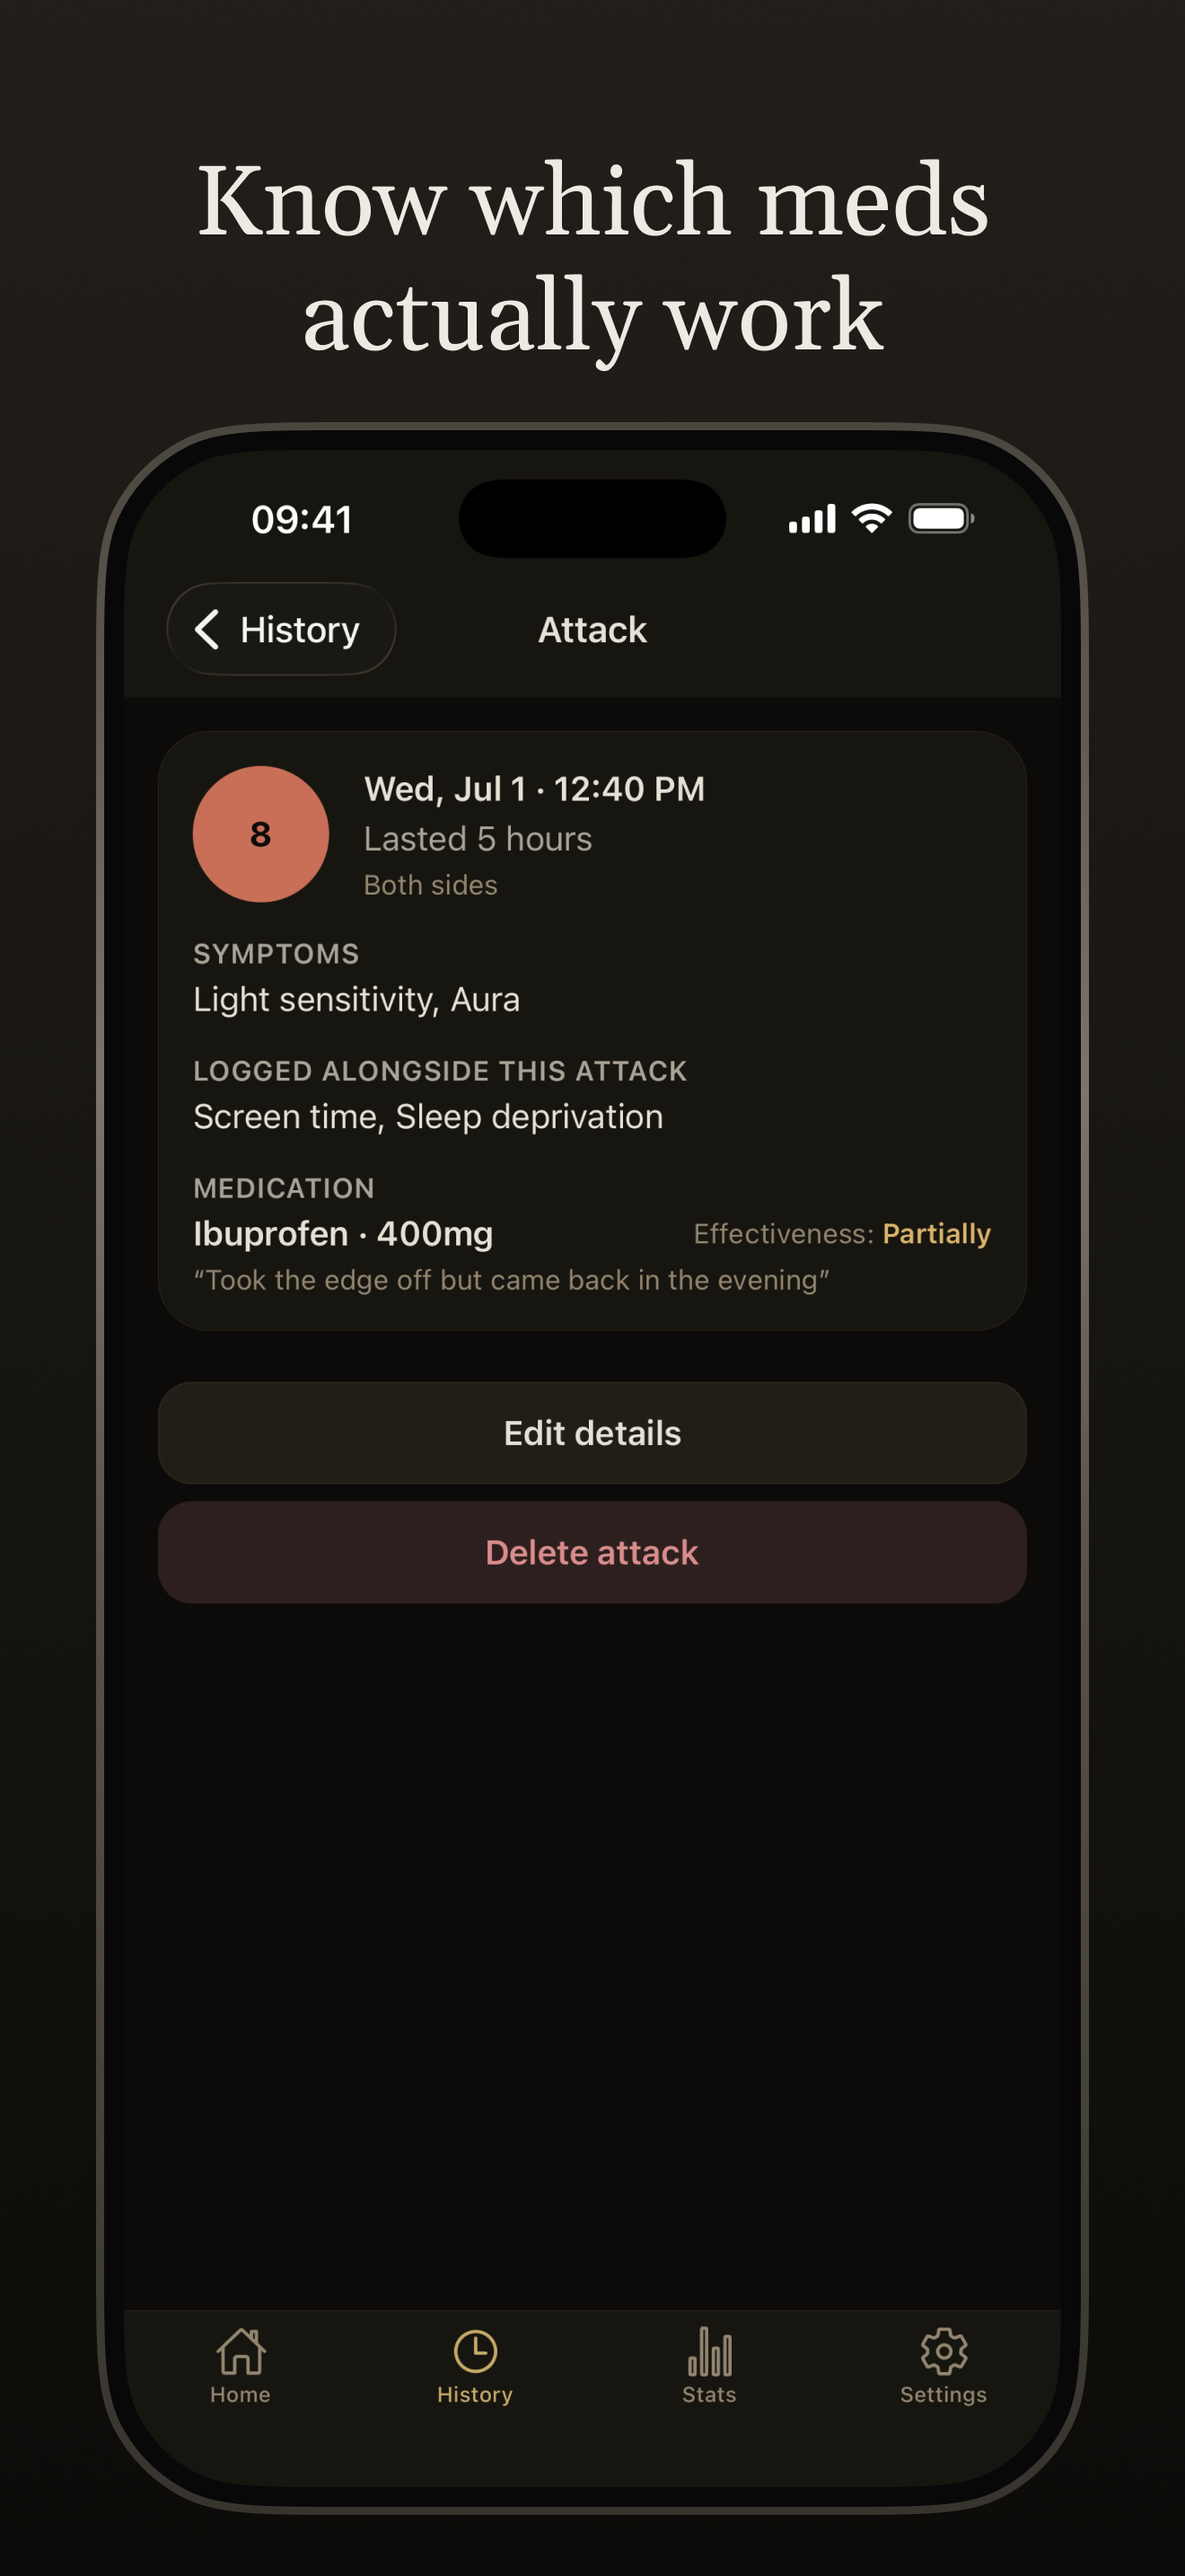
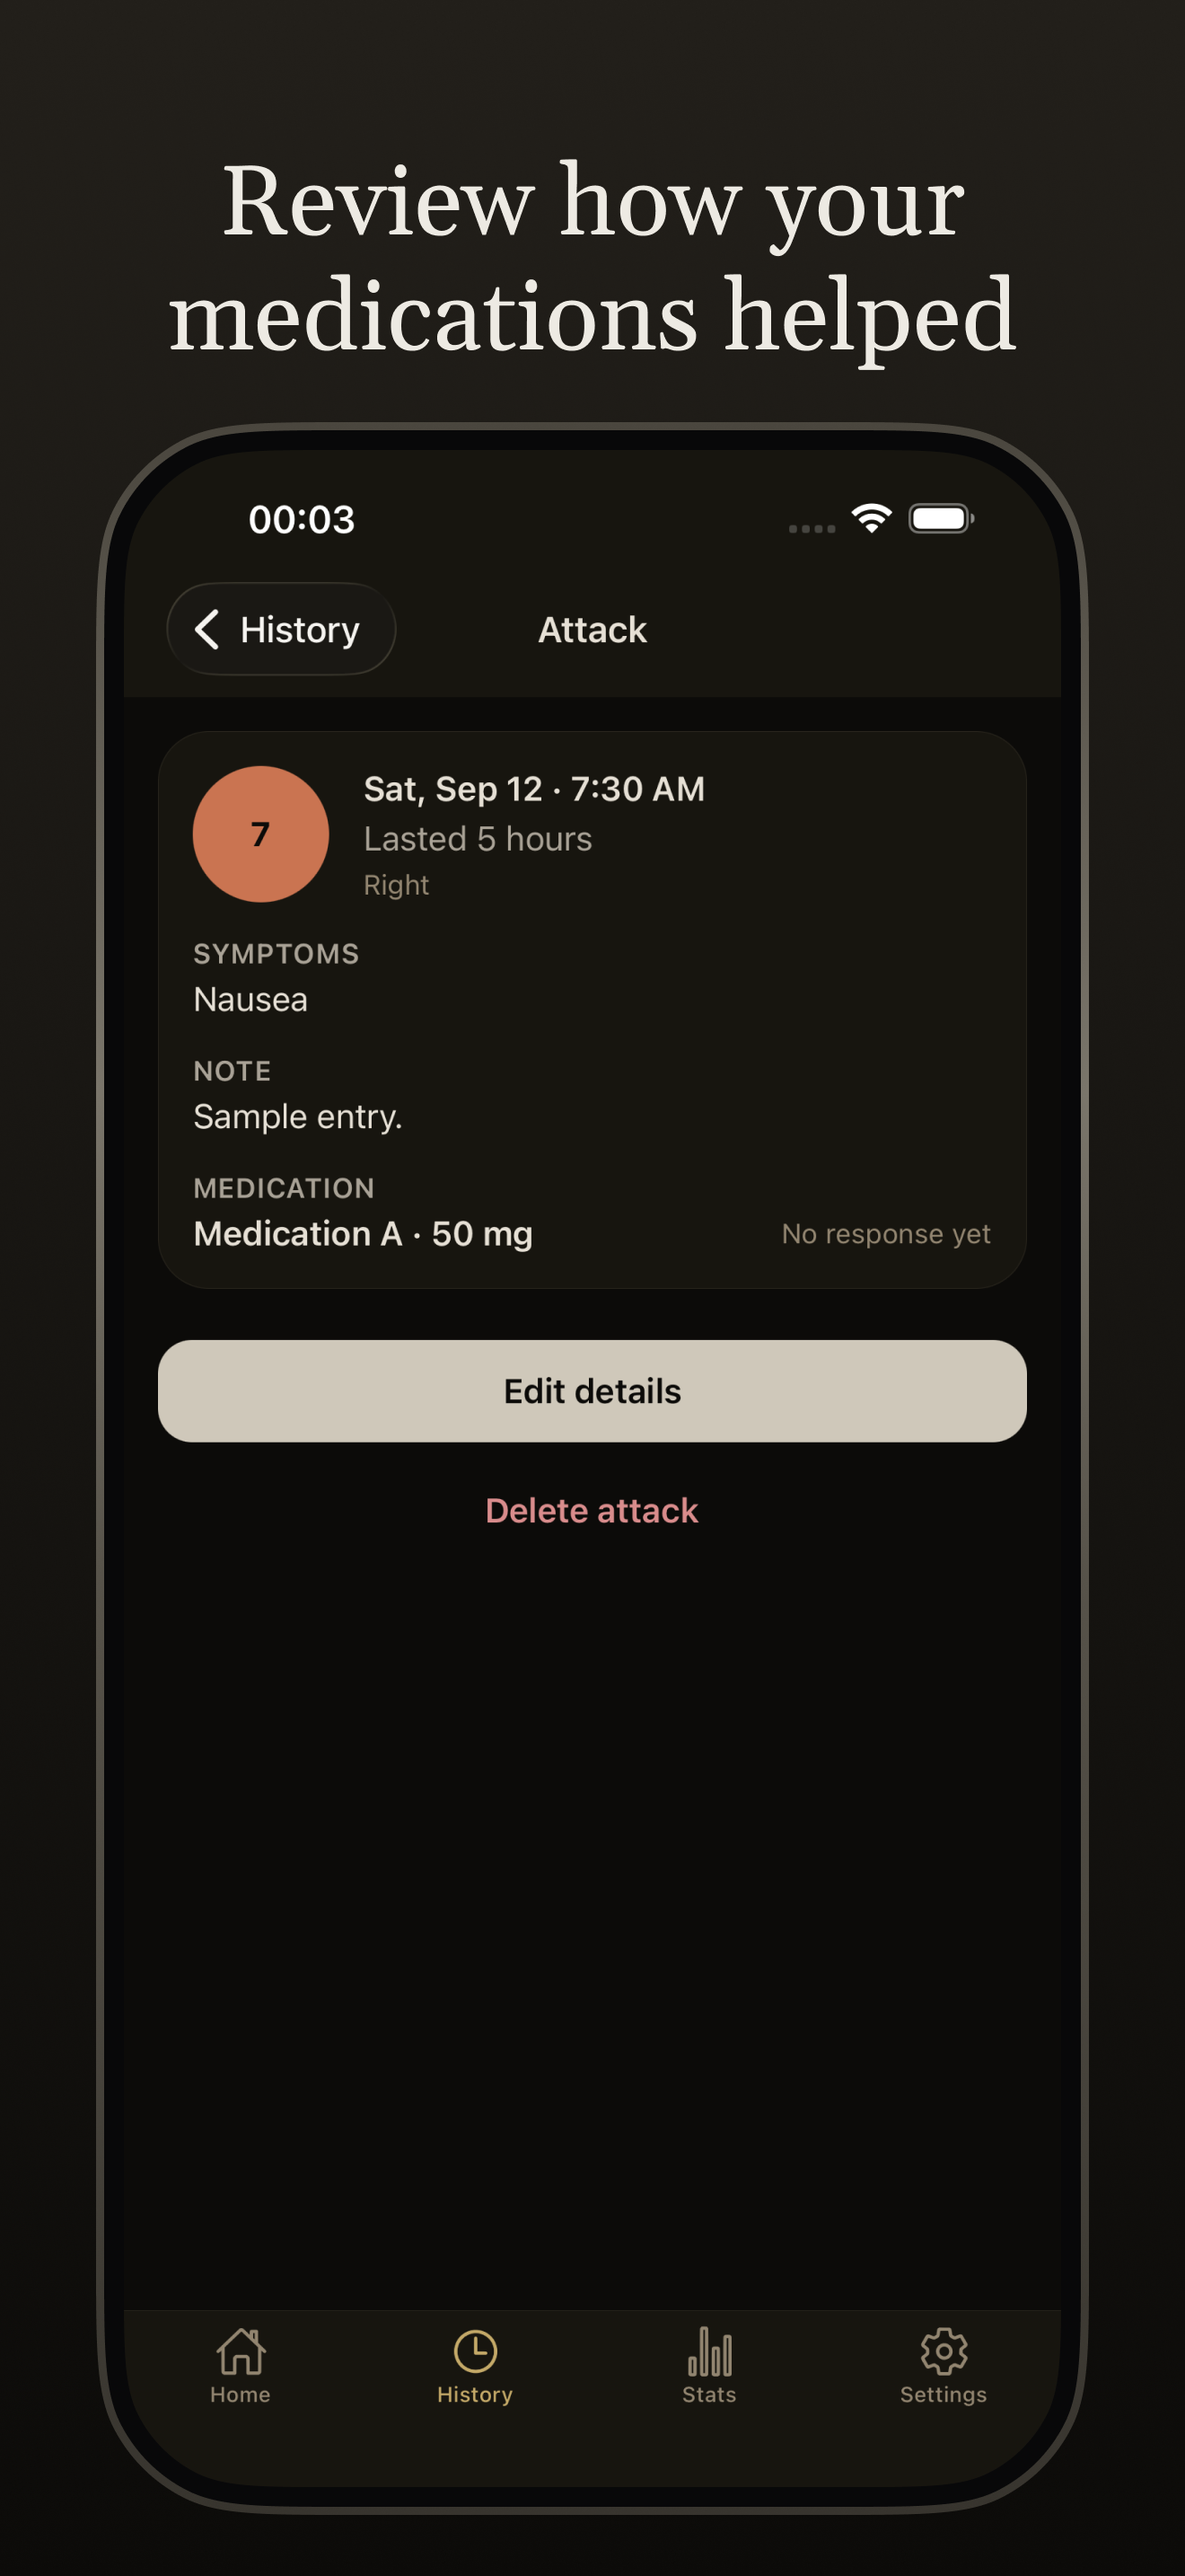
Refresh website with approved Aura screenshots

diff --git a/index.html b/index.html
@@ -282,11 +282,11 @@
         <h2 class="screenshots-heading" id="screenshots-title">Inside Aura</h2>
         <!-- App screenshots are 1320 x 2868 px each. -->
         <div class="screenshots">
-          <img src="screenshots/01-home.png" width="1320" height="2868" alt="Aura home screen showing days clear, a recent attack, and the Start Attack button">
-          <img src="screenshots/02-attack-detail.png" width="1320" height="2868" alt="Aura attack detail showing pain, symptoms, context, medication, and effectiveness">
-          <img src="screenshots/03-calendar.png" width="1320" height="2868" alt="Aura history calendar showing migraine days colored by pain level">
-          <img src="screenshots/04-stats.png" width="1320" height="2868" alt="Aura statistics showing attack frequency, typical duration, and patterns logged alongside attacks">
-          <img src="screenshots/05-attack-mode.png" width="1320" height="2868" alt="Aura low-light attack mode showing duration, pain level, medications, and the End Attack button">
+          <img src="screenshots/01-home.png?v=20261006" width="1320" height="2868" alt="Aura home screen showing days clear, a recent attack, and the Start Attack button">
+          <img src="screenshots/02-attack-detail.png?v=20261006" width="1320" height="2868" alt="Aura attack detail showing pain, symptoms, a sample note, and a logged medication awaiting a response">
+          <img src="screenshots/03-calendar.png?v=20261006" width="1320" height="2868" alt="Aura history calendar showing migraine days colored by pain level">
+          <img src="screenshots/04-stats.png?v=20261006" width="1320" height="2868" alt="Aura statistics showing attack frequency, typical duration, and patterns logged alongside attacks">
+          <img src="screenshots/05-attack-mode.png?v=20261006" width="1320" height="2868" alt="Aura low-light attack mode showing duration, pain level, medications, and the End Attack button">
         </div>
       </div>
     </section>
